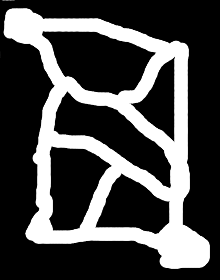
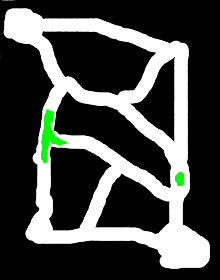
added tiles

Changed region(s): [[0.1636, 0.3714, 0.3, 0.6], [0.7909, 0.6, 0.8455, 0.6857]]

diff --git a/brownsauce.js b/brownsauce.js
@@ -2705,21 +2705,7 @@ function Map(I) { //map object
                     }
                 }
                 if(dominantType.type && dominantType.type <41) {
-
-                    if(dominantType.type==TileType.Grass){
-                        tileSprite[TileType.Grass].draw(canvas, (i-cam.x)*16/Math.pow(2,I.zoom-1), (j-cam.y)*16/Math.pow(2,I.zoom-1));
-                    }else if(dominantType.type==TileType.Mountains){
-                        tileSprite[TileType.Mountains].draw(canvas, (i-cam.x)*16/Math.pow(2,I.zoom-1), (j-cam.y)*16/Math.pow(2,I.zoom-1));
-                    }else if(dominantType.type==TileType.Swamp){
-                        tileSprite[TileType.Swamp].draw(canvas, (i-cam.x)*16/Math.pow(2,I.zoom-1), (j-cam.y)*16/Math.pow(2,I.zoom-1));
-                    }else if(dominantType.type==TileType.Water){
-                        tileSprite[TileType.Water].draw(canvas, (i-cam.x)*16/Math.pow(2,I.zoom-1), (j-cam.y)*16/Math.pow(2,I.zoom-1)); 
-                    }else if(dominantType.type==TileType.Ocean){
-                        tileSprite[TileType.Ocean].draw(canvas, (i-cam.x)*16/Math.pow(2,I.zoom-1), (j-cam.y)*16/Math.pow(2,I.zoom-1));
-                    }else{  //if strange data, draw a solid color
-                        canvas.fillStyle = bColors[0]; 
-                        canvas.fillRect((this.x-cam.x)*this.width, (this.y-cam.y)*this.height, this.width, this.height);
-                    }   
+					tileSprite[dominantType.type].draw(canvas, (i-cam.x)*16/Math.pow(2,I.zoom-1), (j-cam.y)*16/Math.pow(2,I.zoom-1));
                 }
             }
         }
@@ -2751,14 +2737,13 @@ function Map(I) { //map object
 		  var rgba = [mapBitmap.data[i], mapBitmap.data[i+1], mapBitmap.data[i+2], mapBitmap.data[i+3]];
 		  var yPos = Math.floor(i / 4 / MAP_WIDTH);
 		  var xPos = (i / 4) % MAP_WIDTH;
-		  //if( rgba[1]>0 ) {
+		if(( rgba[0]==0) && (rgba[1]==0) && (rgba[2]==0)) {
 
-			//I.setTile(xPos, yPos, TileType.Forest);
-		/*  } else */if( rgba[0] || rgba[1] || rgba[2] ) {
-
-			I.setTile(xPos, yPos, TileType.Grass);
-		  } else {
 			I.setTile(xPos, yPos, TileType.Mountains);
+		  } else if (( rgba[0]==0) && (rgba[1]==255) && (rgba[2]==0)){
+			I.setTile(xPos, yPos, TileType.Forest);
+		  } else {
+			I.setTile(xPos, yPos, TileType.Grass);
 		  }
 		}
 		maps[0].buildRadar();

diff --git a/equipment.js b/equipment.js
@@ -45,11 +45,11 @@ var TileType={};
 TileType.Grass=0;
 TileType.Plains=1;
 TileType.Swamp=2;
-TileType.Hills=3;
+TileType.Hills=7;
 TileType.Mountains=4;
 TileType.Water=5;
 TileType.Ocean=6;
-TileType.Forest=7;
+TileType.Forest=3;
 TileType.Road=8;
 
 var radarBitmap=[];
